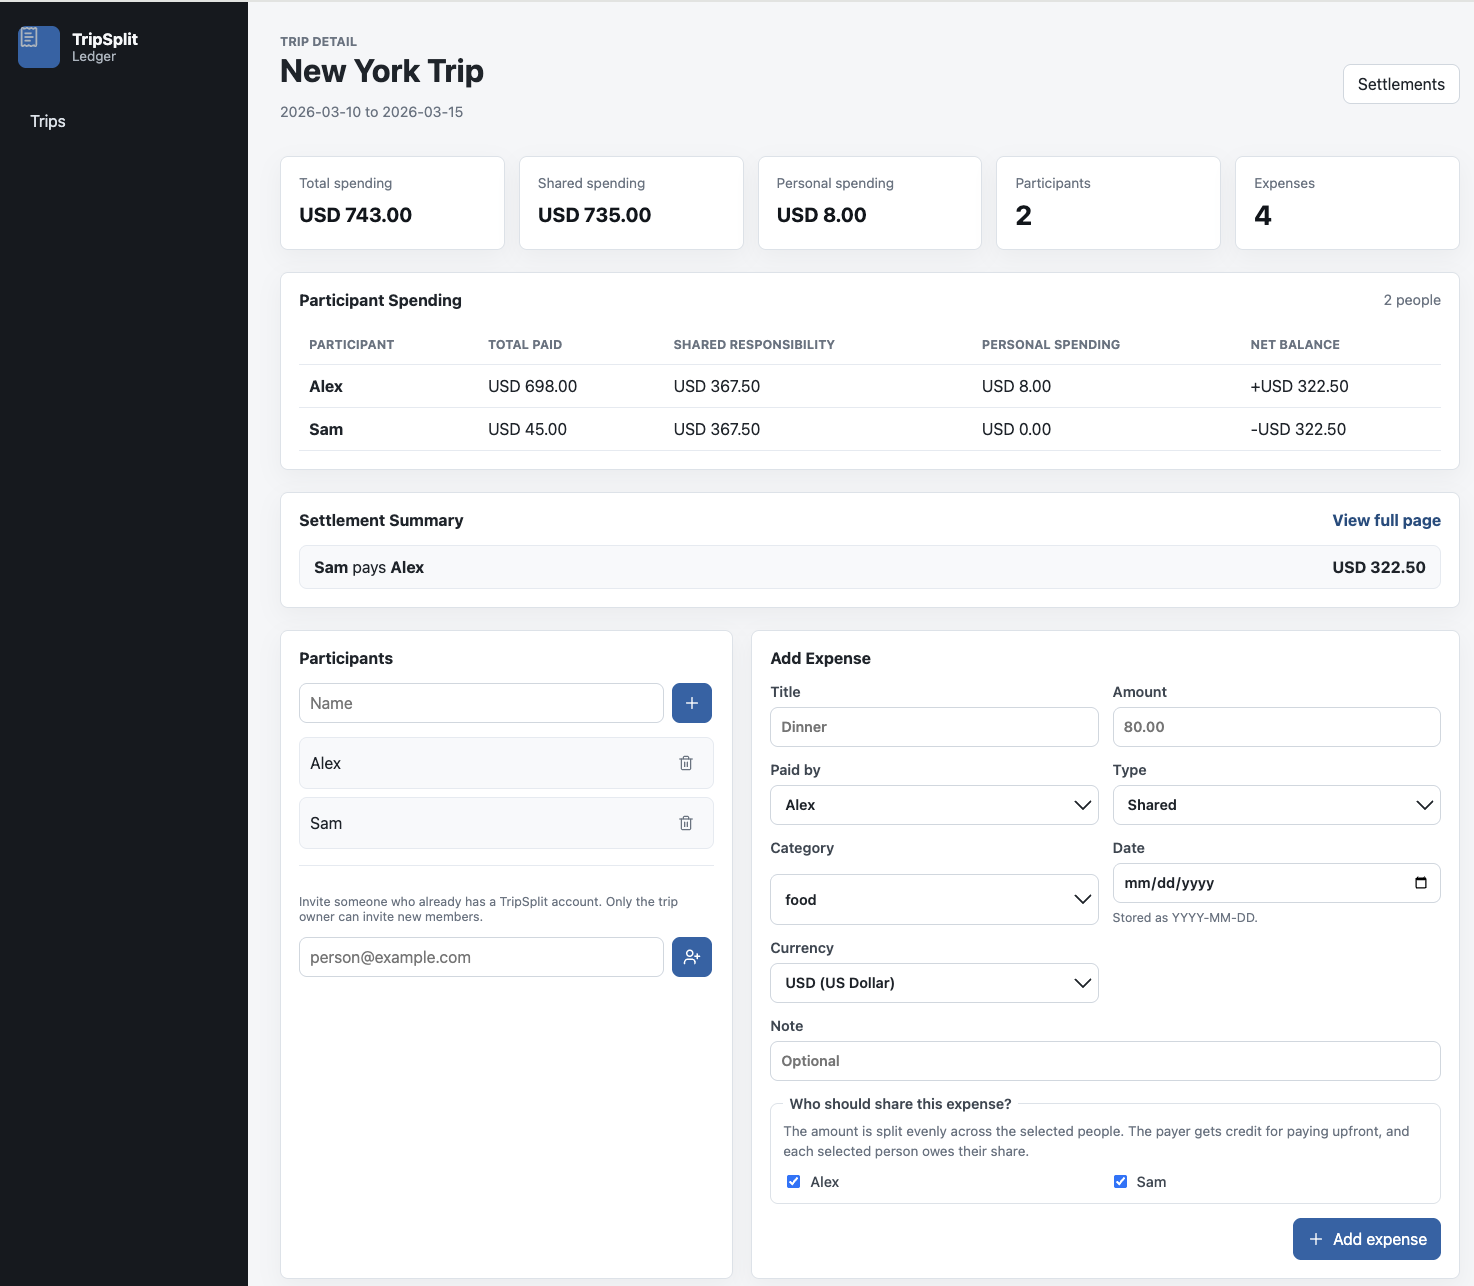
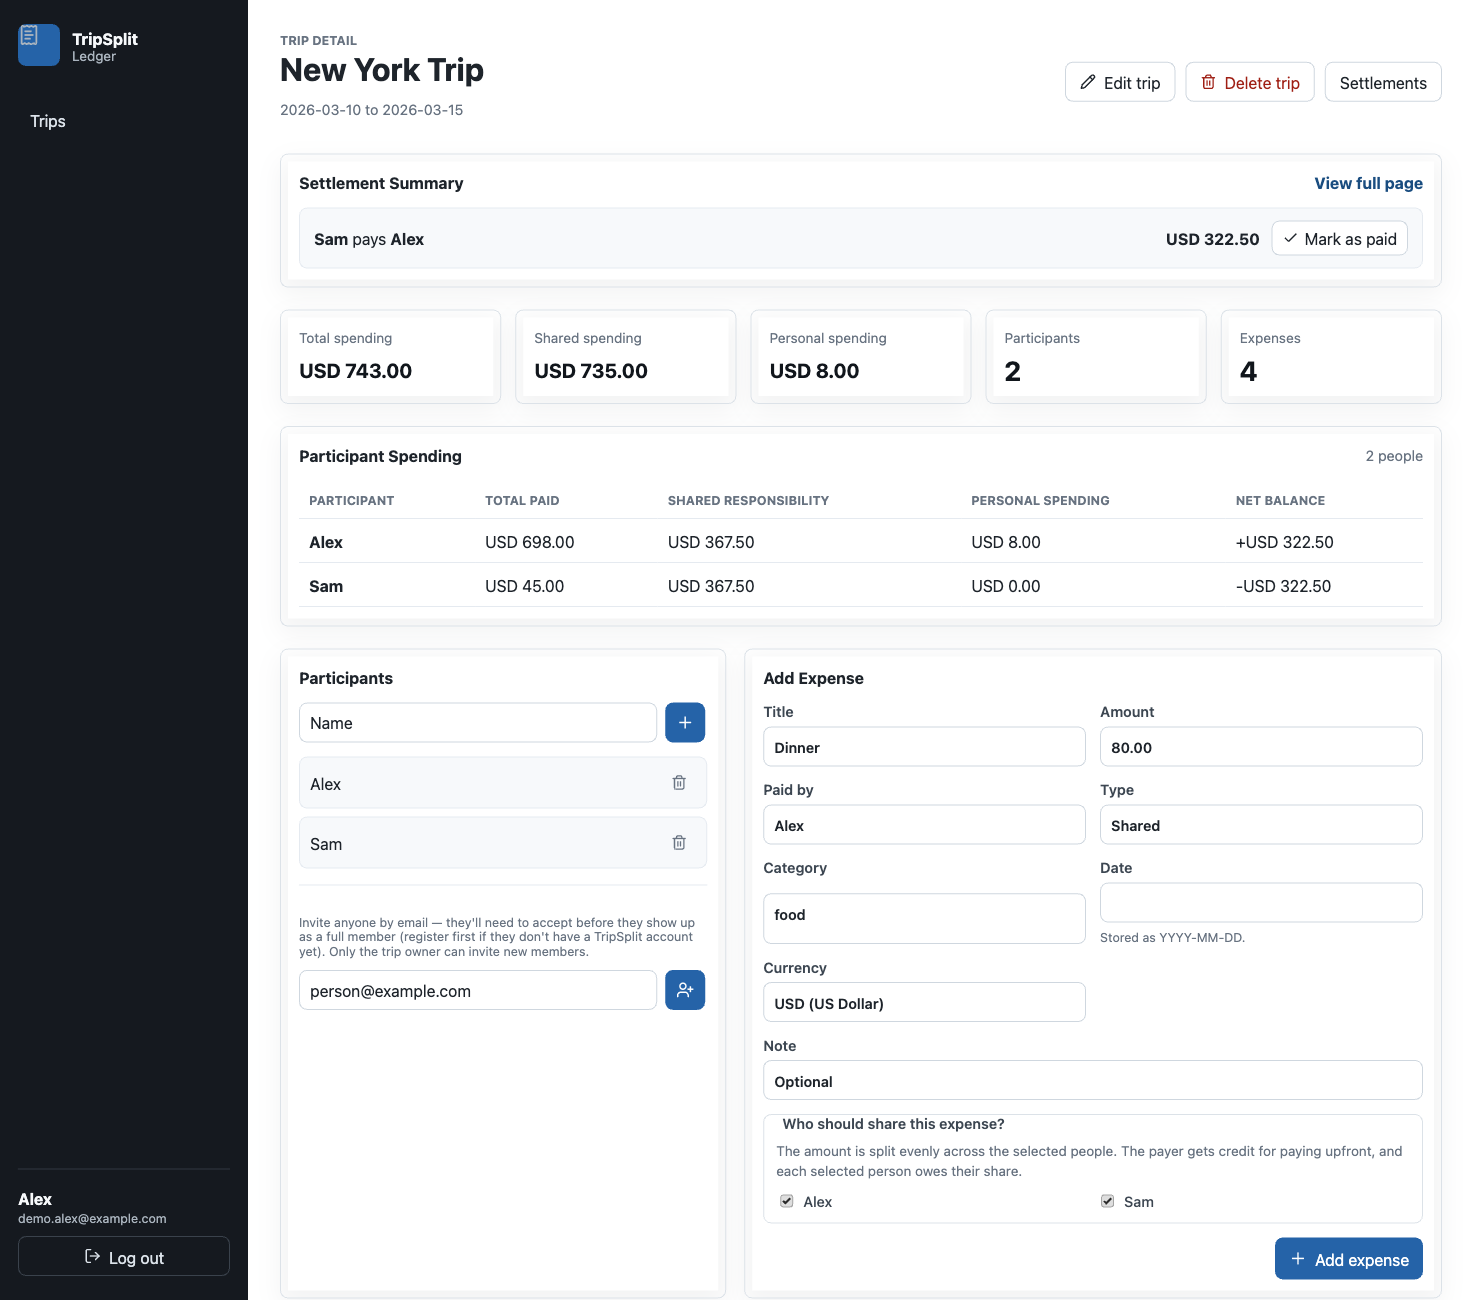
Update README with product-focused intro, badges, TOC, and a refreshed trip detail screenshot

diff --git a/README.md b/README.md
@@ -1,20 +1,34 @@
 # TripSplit Ledger
 
+A self-hosted group expense tracker for trips — split bills, track who paid what, and see a full spending breakdown by category, day, and person instead of just a final settlement number.
+
 [![CI](https://github.com/GGGUJINGGG/tripsplit-ledger/actions/workflows/ci.yml/badge.svg)](https://github.com/GGGUJINGGG/tripsplit-ledger/actions/workflows/ci.yml)
+![React](https://img.shields.io/badge/React-19-61DAFB?logo=react&logoColor=white)
+![TypeScript](https://img.shields.io/badge/TypeScript-6-3178C6?logo=typescript&logoColor=white)
+![FastAPI](https://img.shields.io/badge/FastAPI-0.115-009688?logo=fastapi&logoColor=white)
+![PostgreSQL](https://img.shields.io/badge/PostgreSQL-17-4169E1?logo=postgresql&logoColor=white)
+![PWA](https://img.shields.io/badge/PWA-installable-5A0FC8?logo=pwa&logoColor=white)
 
 **Live demo:** [tripsplit-ledger.vercel.app](https://tripsplit-ledger.vercel.app) — register your own account to try it (see [Deployment](#deployment) for how the frontend/backend are hosted).
-
-After a group trip, I used Splitwise to settle expenses with friends and ran into a few frustrations: the free tier limits how many expenses you can log per day, and it doesn't show a full spending breakdown for the trip — only who owes whom. I wanted to see total spending by category, by day, and per person, not just the final settlement numbers.
-
-That gap was the starting point. As I logged our actual trip expenses into an early version of this app, I kept noticing other things I wanted — filtering, expense types, CSV export, a per-person spending summary — and added them one by one. TripSplit Ledger is the result: a personal expense tracker built around how I actually think about group travel spending.
-
-The current implementation uses a React/Vite frontend, a FastAPI backend, and PostgreSQL persistence through SQLAlchemy 2.0. Database schema changes are managed with Alembic, and backend integration tests run against a separate PostgreSQL test database.
 
 ## Screenshots
 
 ![Trip Detail](screenshots/trip-detail.png)
 
 ![Expense Ledger](screenshots/expense-ledger.png)
+
+## Contents
+
+- [Features](#features)
+- [Known Limitations](#known-limitations)
+- [Planned](#planned)
+- [Architecture](#architecture)
+- [Backend Setup](#backend-setup)
+- [Frontend Setup](#frontend-setup)
+- [Deployment](#deployment)
+- [API Overview](#api-overview)
+- [Calculation Logic](#calculation-logic)
+- [Tests](#tests)
 
 ## Features
 
@@ -52,6 +66,7 @@ The current implementation uses a React/Vite frontend, a FastAPI backend, and Po
 
 **Mobile**
 - Installable as a Progressive Web App — "Add to Home Screen" on iOS/Android for a full-screen, app-like launch experience with no browser chrome
+- Floating quick-jump buttons (Add Expense, Record Payment, back to top) on the trip detail page below the 880px breakpoint, so a long trip doesn't require scrolling back up to reach them; hidden above that width since the two-column desktop layout already keeps everything in reach
 
 **Export**
 - CSV export of the full expense ledger with all filters applied
